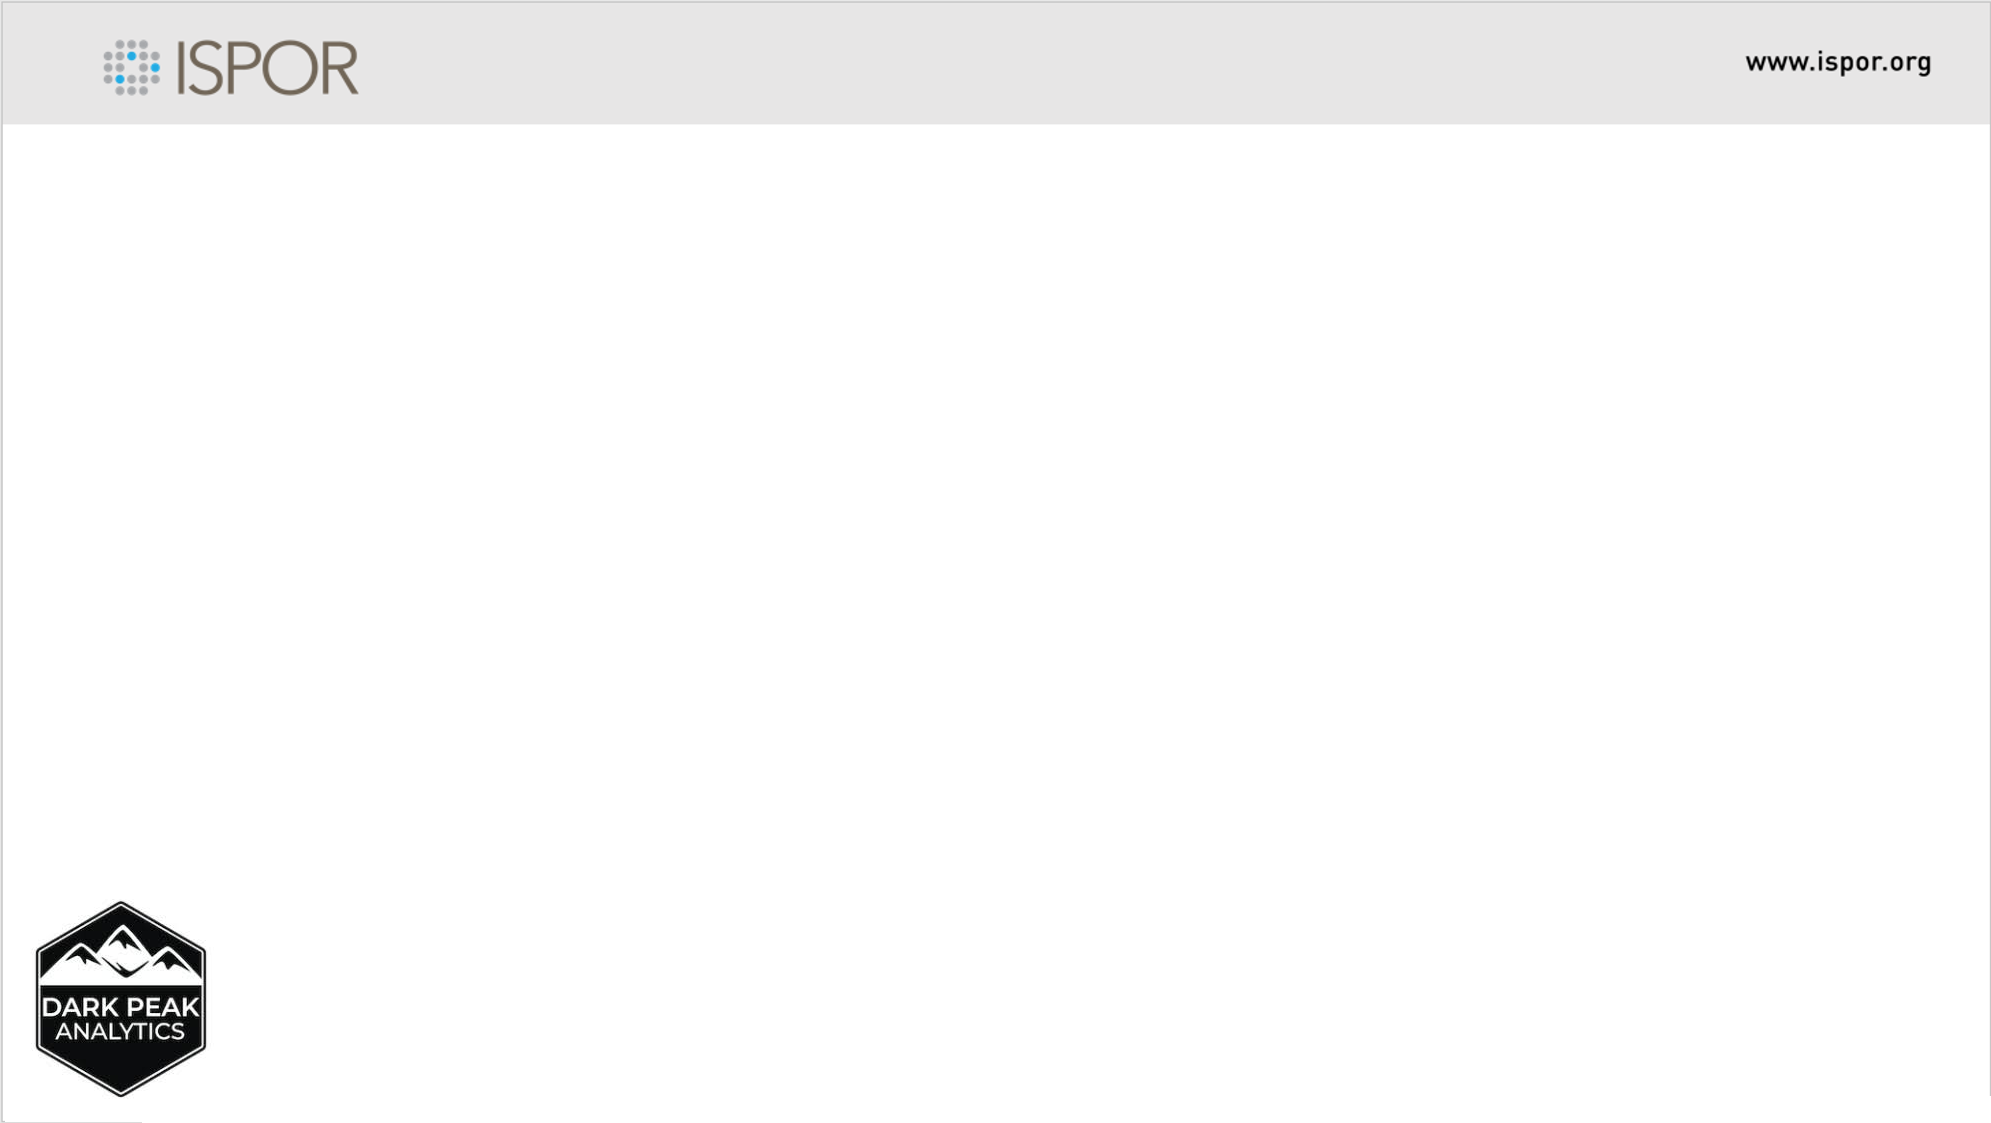
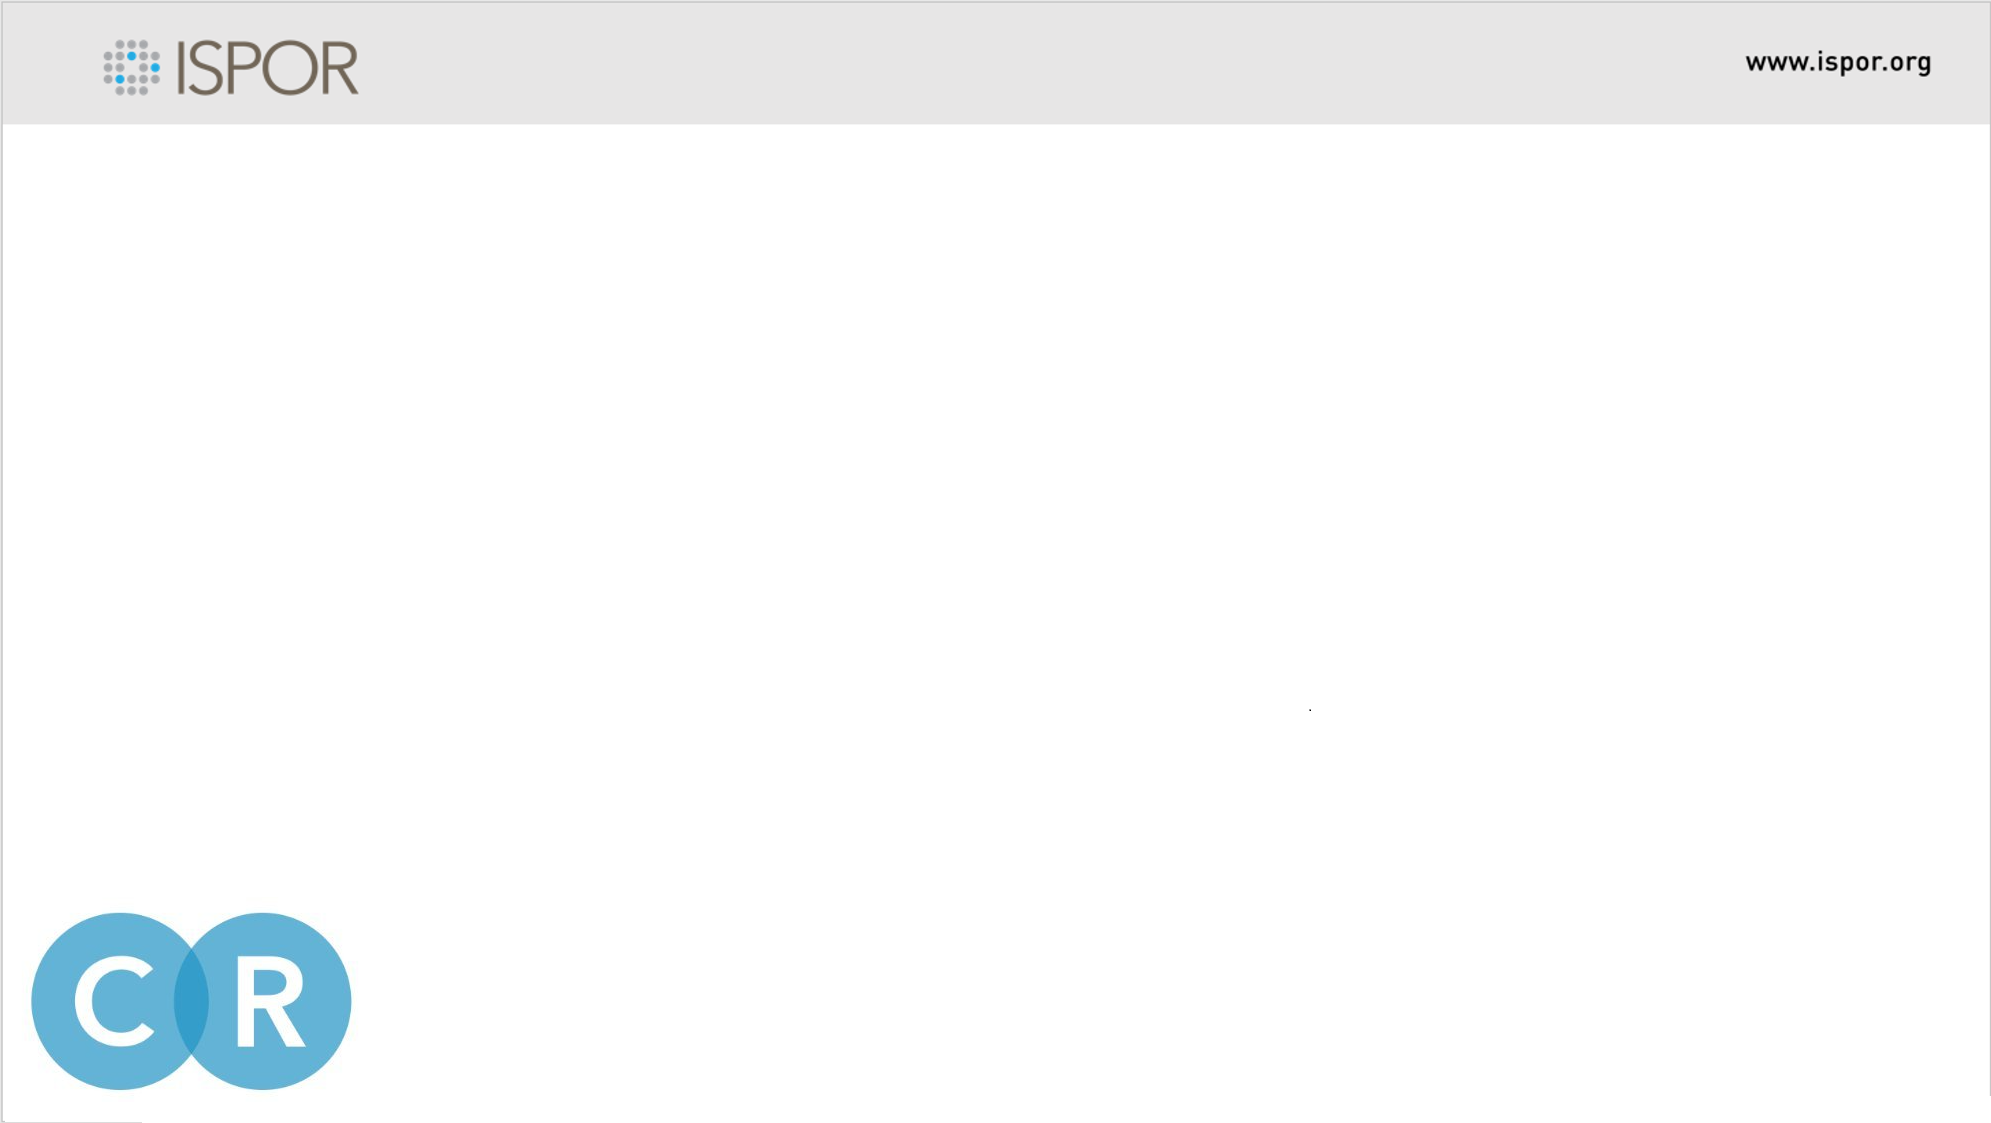
Amending/updating slides

Changed region(s): [[0.0, 0.8103, 0.1868, 0.9662]]

diff --git a/Additional useful packages/Presentation materials/ISPORslides2025.html b/Additional useful packages/Presentation materials/ISPORslides2025.html
@@ -23,7 +23,7 @@ class: center, middle, inverse, title-slide
 ### Rose Hart
 ]
 .institute[
-### Health Economics Consultant, Sheffield, UK
+### Senior Health Economist, Covalence Research, UK
 ]
 .date[
 ### 9 November 2025
@@ -308,8 +308,8 @@ plotOutput("Results_graph")
 
 #This is written in the server
 output$Results_graph &lt;- renderPlot({
-    autoplot(ictstm()$stateprobs_, labels = labs_indiv,
-             ci = FALSE) + theme_bw()
+    hesim::autoplot(ictstm()$stateprobs_, labels = labs_indiv,
+             ci = FALSE) + ggplot2::theme_bw()
   })
 ```
   
@@ -378,7 +378,7 @@ Shiny apps can be made available and deployed in a variety of ways, for example:
 
 --
 
-3. R Studio Connect - https://www.rstudio.com/products/connect/
+3. Posit Connect - https://posit.co/products/enterprise/connect/
 
   - Hosting environment software to download on privately owned server (paid subscription)
 
@@ -410,9 +410,9 @@ By the end of this session you should:
 ---
 class:center
 
-## &lt;br&gt;&lt;br&gt;Thank you for joining this &lt;br&gt;ISPOR 2025 Short Course, Montreal 
+## &lt;br&gt;&lt;br&gt;Thank you for joining this &lt;br&gt;ISPOR EU 2025 Short Course, Glasgow 
 
-### &lt;br&gt;Felicity Lamrock, PhD; Howard Thom, PhD; Petros Pechlivanoglou, PhD; Gianluca Baio, PhD; Rose Hart, PhD
+### &lt;br&gt;Felicity Lamrock, PhD; Howard Thom, PhD; Gianluca Baio, PhD; Rose Hart, PhD
 
     </textarea>
 <style data-target="print-only">@media screen {.remark-slide-container{display:block;}.remark-slide-scaler{box-shadow:none;}}</style>

diff --git a/Additional useful packages/Presentation materials/my-theme.css b/Additional useful packages/Presentation materials/my-theme.css
@@ -4,7 +4,7 @@
 @import url(https://fonts.googleapis.com/css?family=Source+Code+Pro:400,700);
 
 .title-slide {
-  background-image: url(www/ContentISPOR.PNG);
+  background-image: url(www/TitleISPOR.PNG);
   background-size: contain;
   color: black;
   font-size: 1.15rem;
